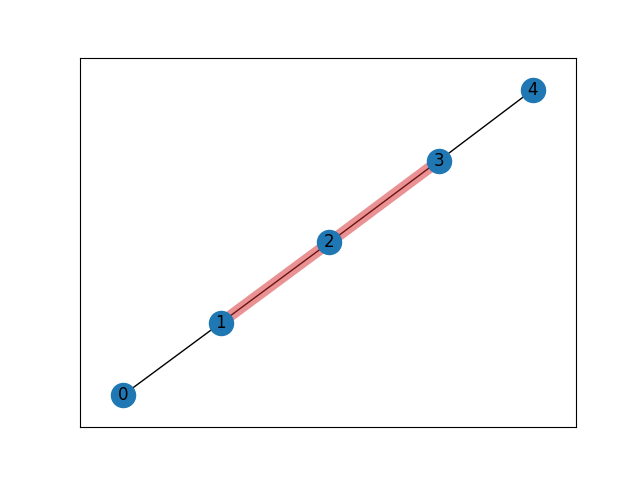
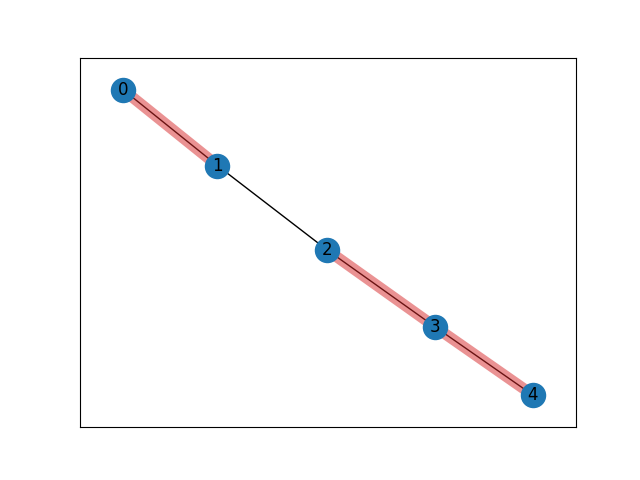
commit before adding random graph stuff

diff --git a/BB84/network.py b/BB84/network.py
@@ -124,7 +124,7 @@ if __name__ == "__main__":
     print(time)
     print(compromised)
 
-    plotGraphWithPathHighlighted(G, [[1, 2, 3]])
+    plotGraphWithPathHighlighted(G, [[0, 1], [2, 3, 4]])
     
     while True:
         pass
